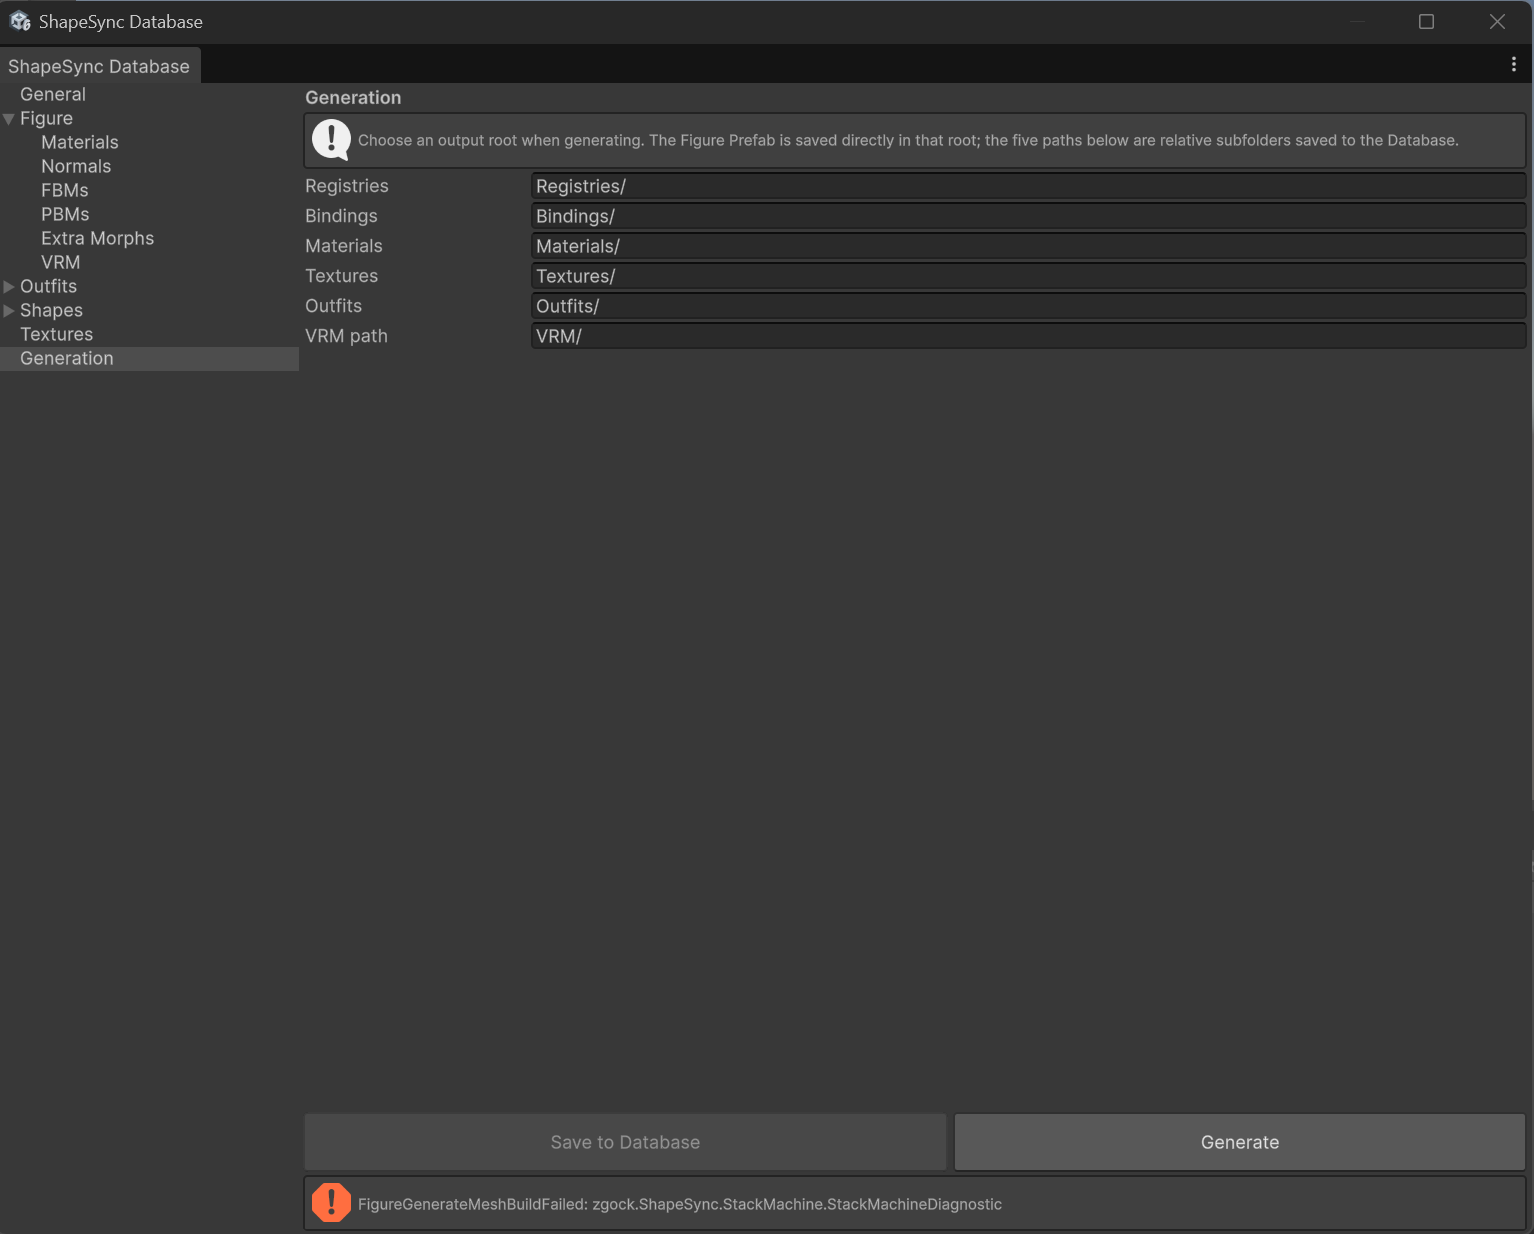
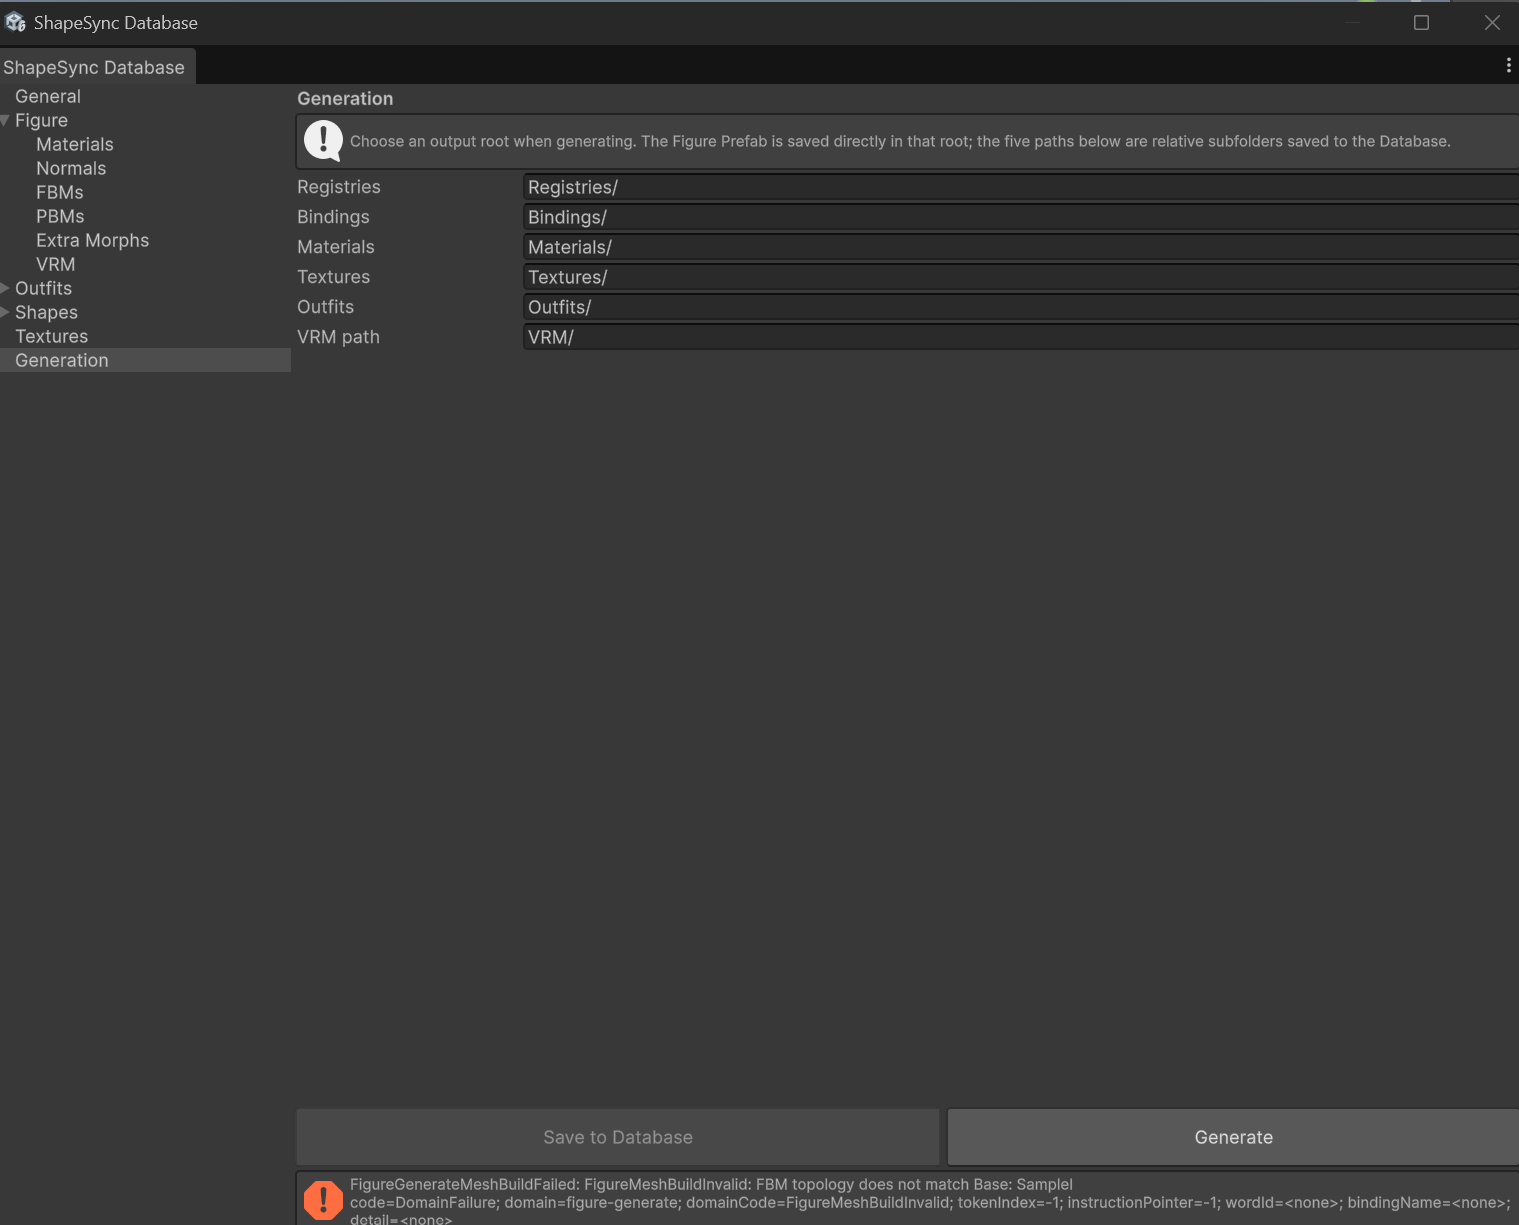
Update Figure diagnostic troubleshooting

Changed region(s): [[0.1856, 0.0, 1.0, 0.6514], [0.1856, 0.8996, 1.0, 1.0], [0.0, 0.0, 0.1238, 0.3102]]

diff --git a/initialvrm.md b/initialvrm.md
@@ -195,9 +195,9 @@ Base モデルと同様に、モデル固有の装飾アイテムをすべて外
 * **解決策**:
   VRoid Studio の編集画面に戻り、「髪型」「衣装」「アクセサリー」の3つのタブをすべて確認して完全に外してください。また、エクスポート画面でポリゴン削減オプションがすべて OFF になっているか確認してください。
 
-### Q2. 後工程で FBM 取り込み時に「頂点数不一致」エラーが発生する
+### Q2. 後工程の Generate 実行時にトポロジ不一致エラー（`FBM topology does not match Base`）が発生する
 * **原因**:
-  Base と FBM の間でメッシュの頂点構造（トポロジ）が異なっています。微小なアクセサリーや衣装パーツが残ったまま書き出された場合、Unity 上の診断メッセージからは「何が原因で不一致になったのか」を特定することが困難です。
+  Base と FBM の間でメッシュの頂点構造（トポロジ）が異なっています（第3章の Generate 時に `FigureGenerateMeshBuildFailed: FigureMeshBuildInvalid: FBM topology does not match Base: SampleI` などの診断が表示されます）。微小なアクセサリーや衣装パーツの消し残し、またはポリゴン削減設定の違いなどによって頂点構成がずれている可能性があります。
 * **解決策**:
   本章の [手順 3](#手順-3-vrm-エクスポート設定と数値の確認) および [手順 3（FBM側）](#手順-3fbm側-vrm-エクスポート設定と数値一致の確認) に戻り、エクスポート画面で表示されるポリゴン数・マテリアル数・ボーン数が互いに完全一致していることを確認した上で、再度 VRM 1.0 でエクスポートし直してください。
 
